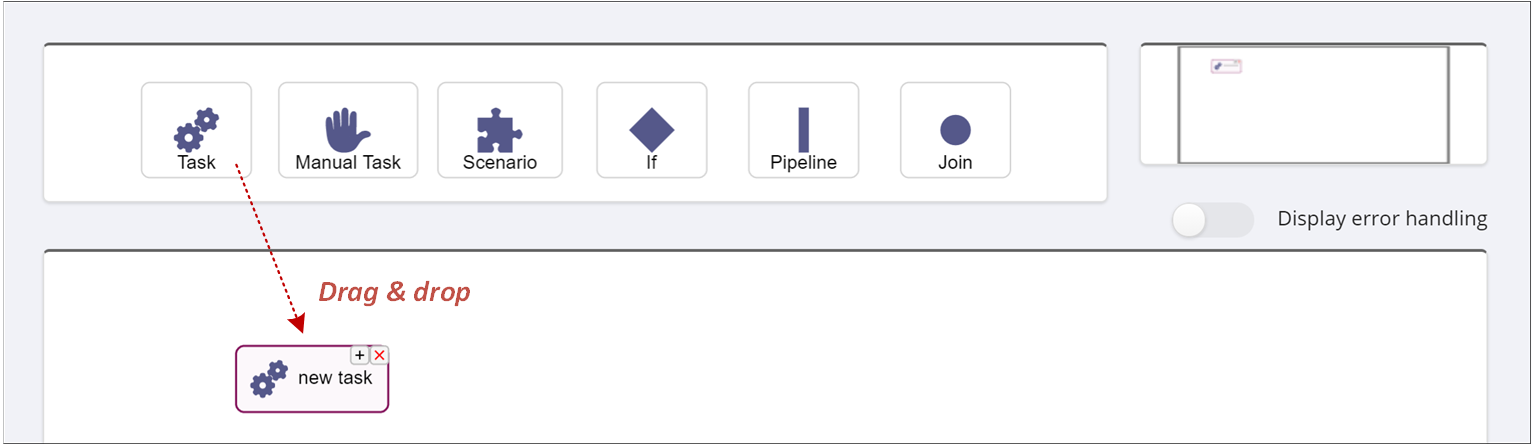
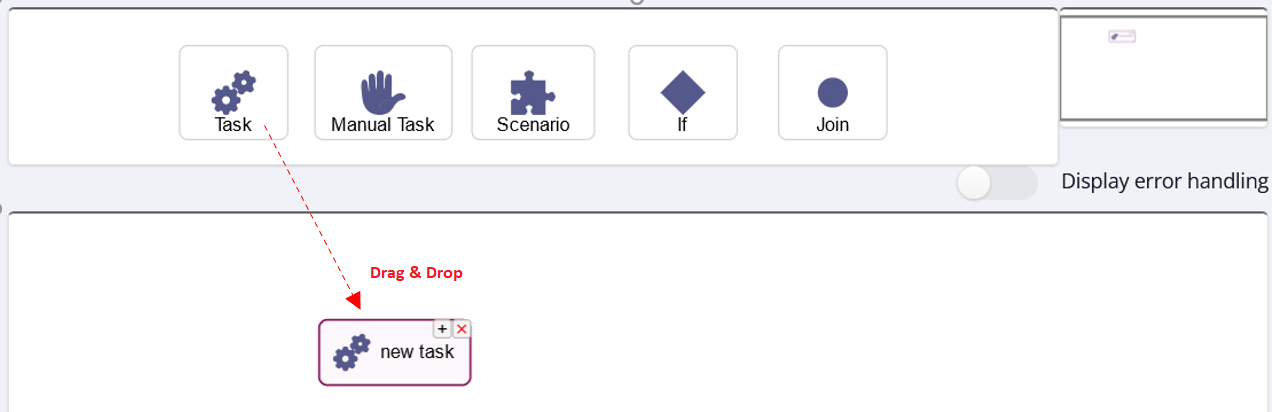
Images updated and user's guide updated

diff --git a/user-guide/README.md b/user-guide/README.md
@@ -202,9 +202,9 @@ scenario graph design area, as shown here:
 
 ![Drag drop](drag_drop_red.png)
 
-Other icons allow a user to define _pipelines_ of tasks, and to _join_ several
-tasks in a synchonization tasks. These notions are explained in the Scenario
-Concepts Guide, and the practical aspects are detailed in the next sections.
+Other icons allow a user to _join_ several tasks in a synchonization tasks. 
+These notions are explained in the Scenario Concepts Guide, and the practical
+aspects are detailed in the next sections.
 
 When the user clicks on the newly added task, the right-side panel changes from
 displaying scenario parameters to displaying the following task-level
